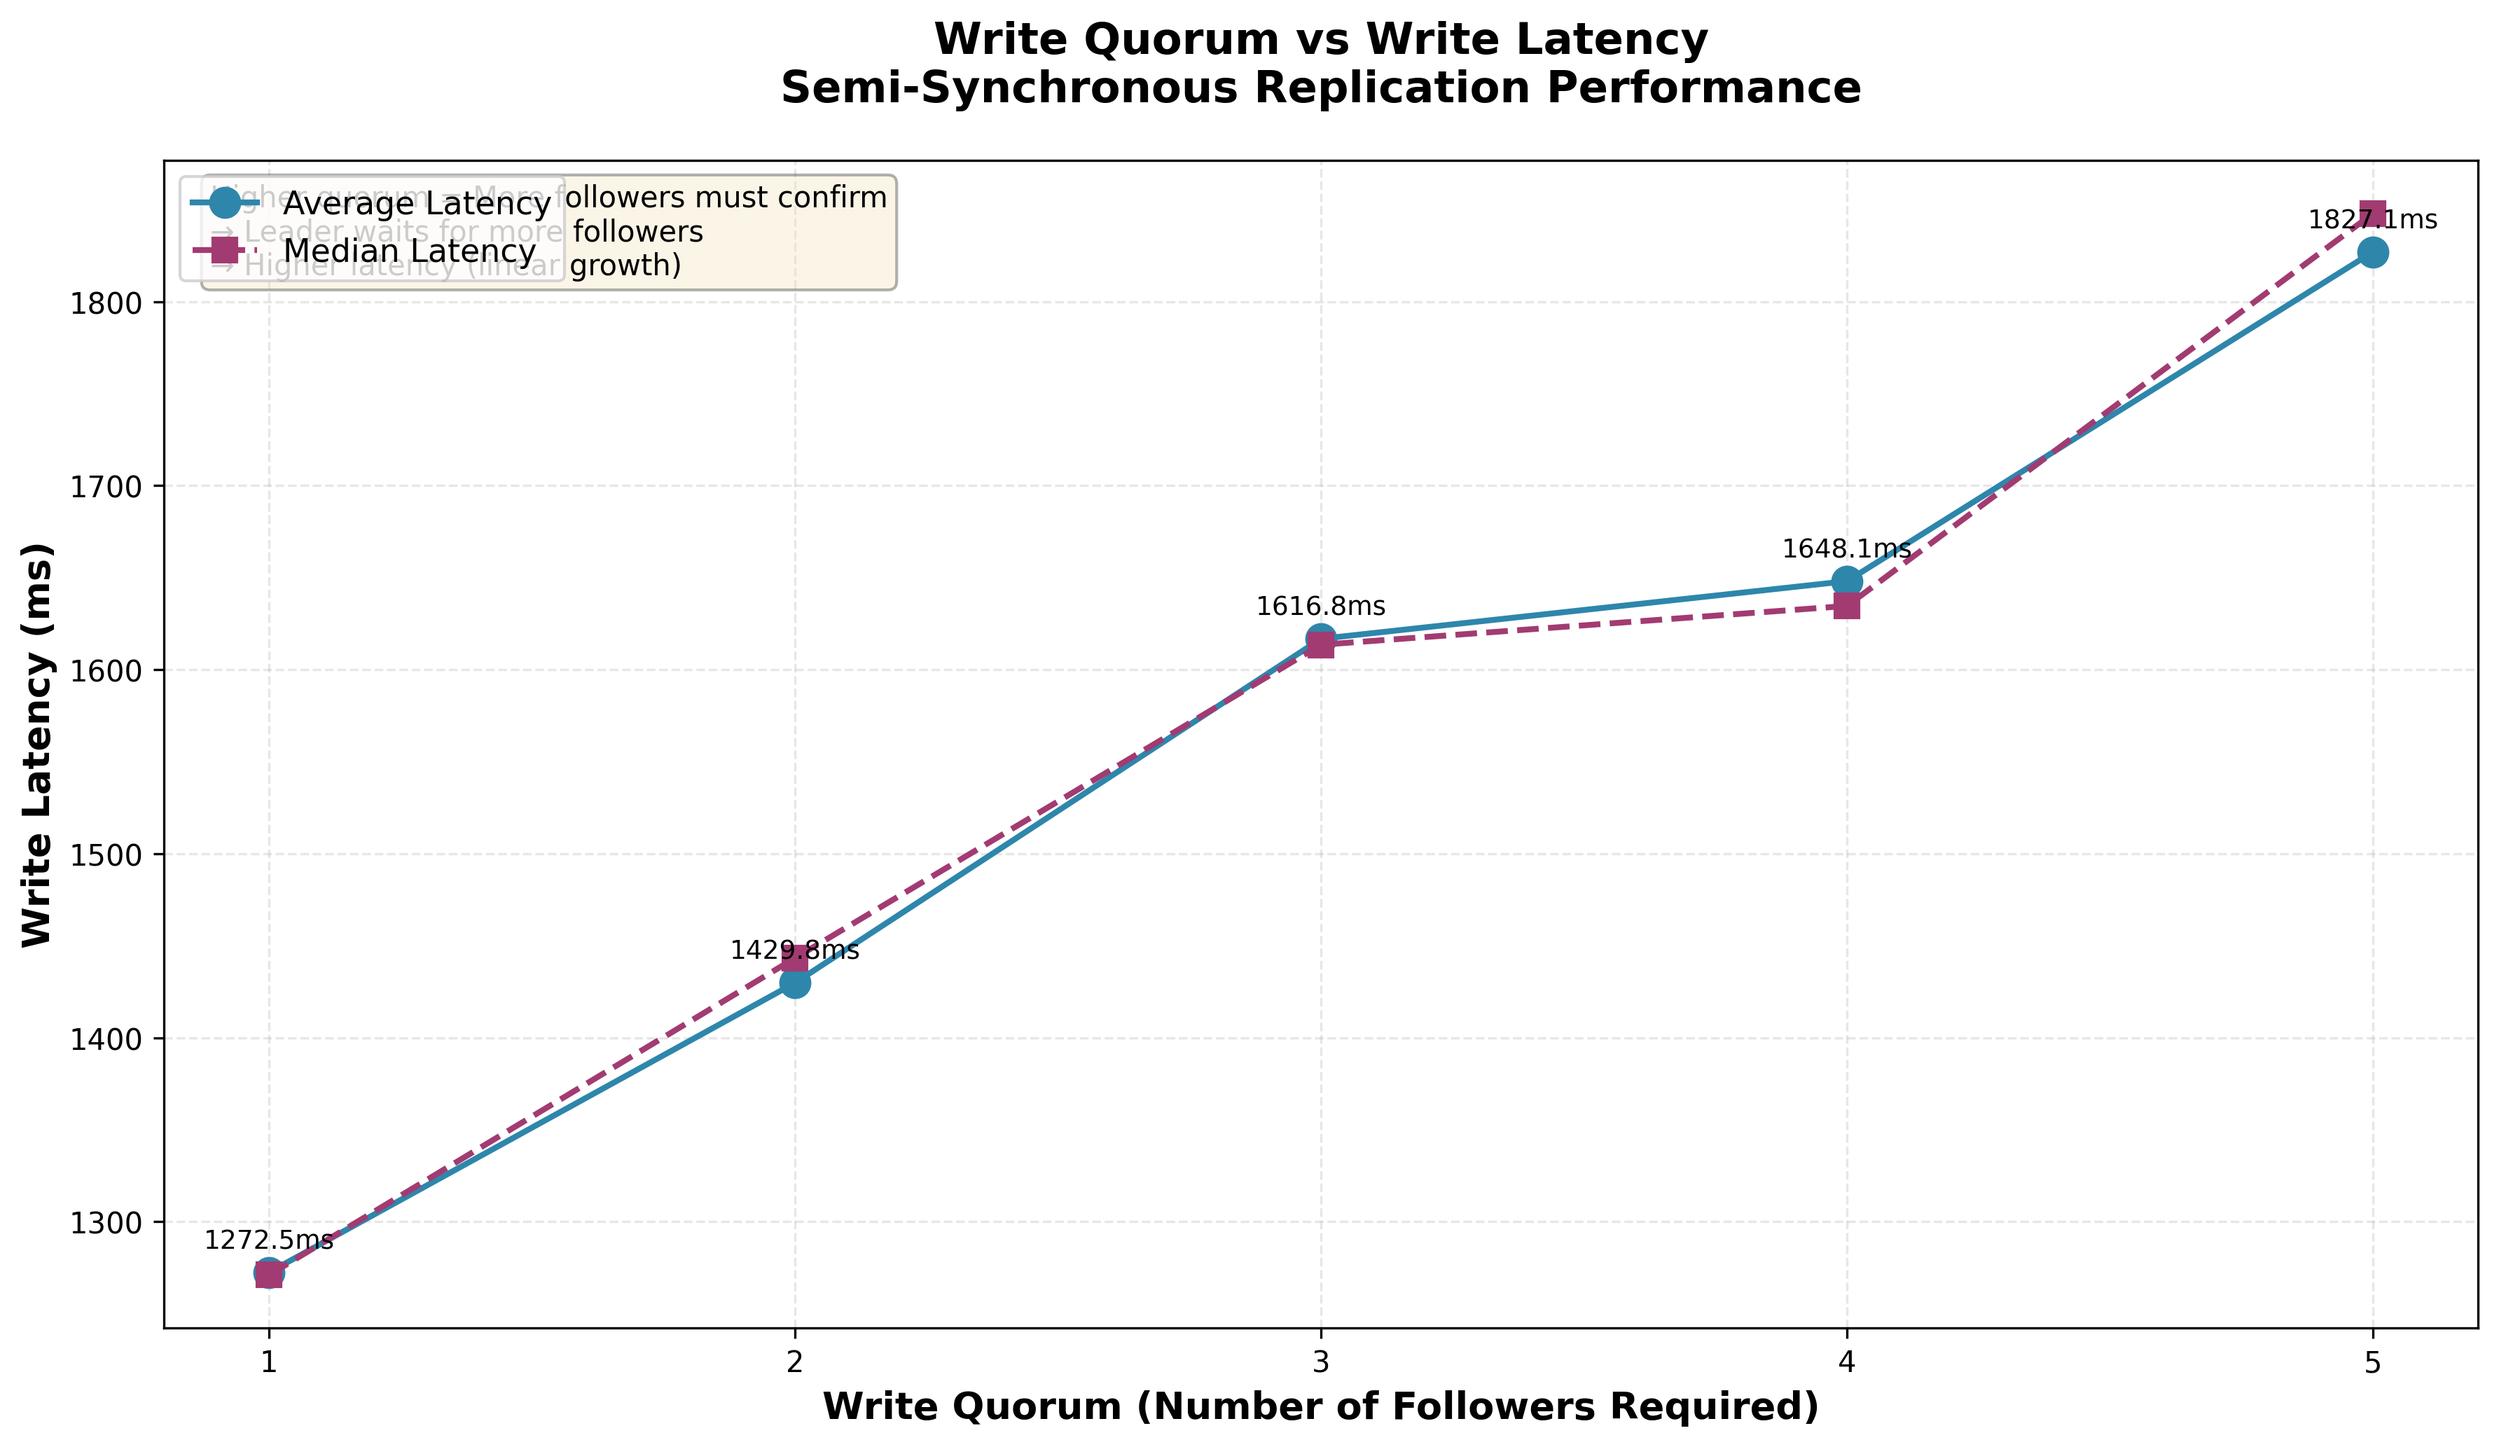
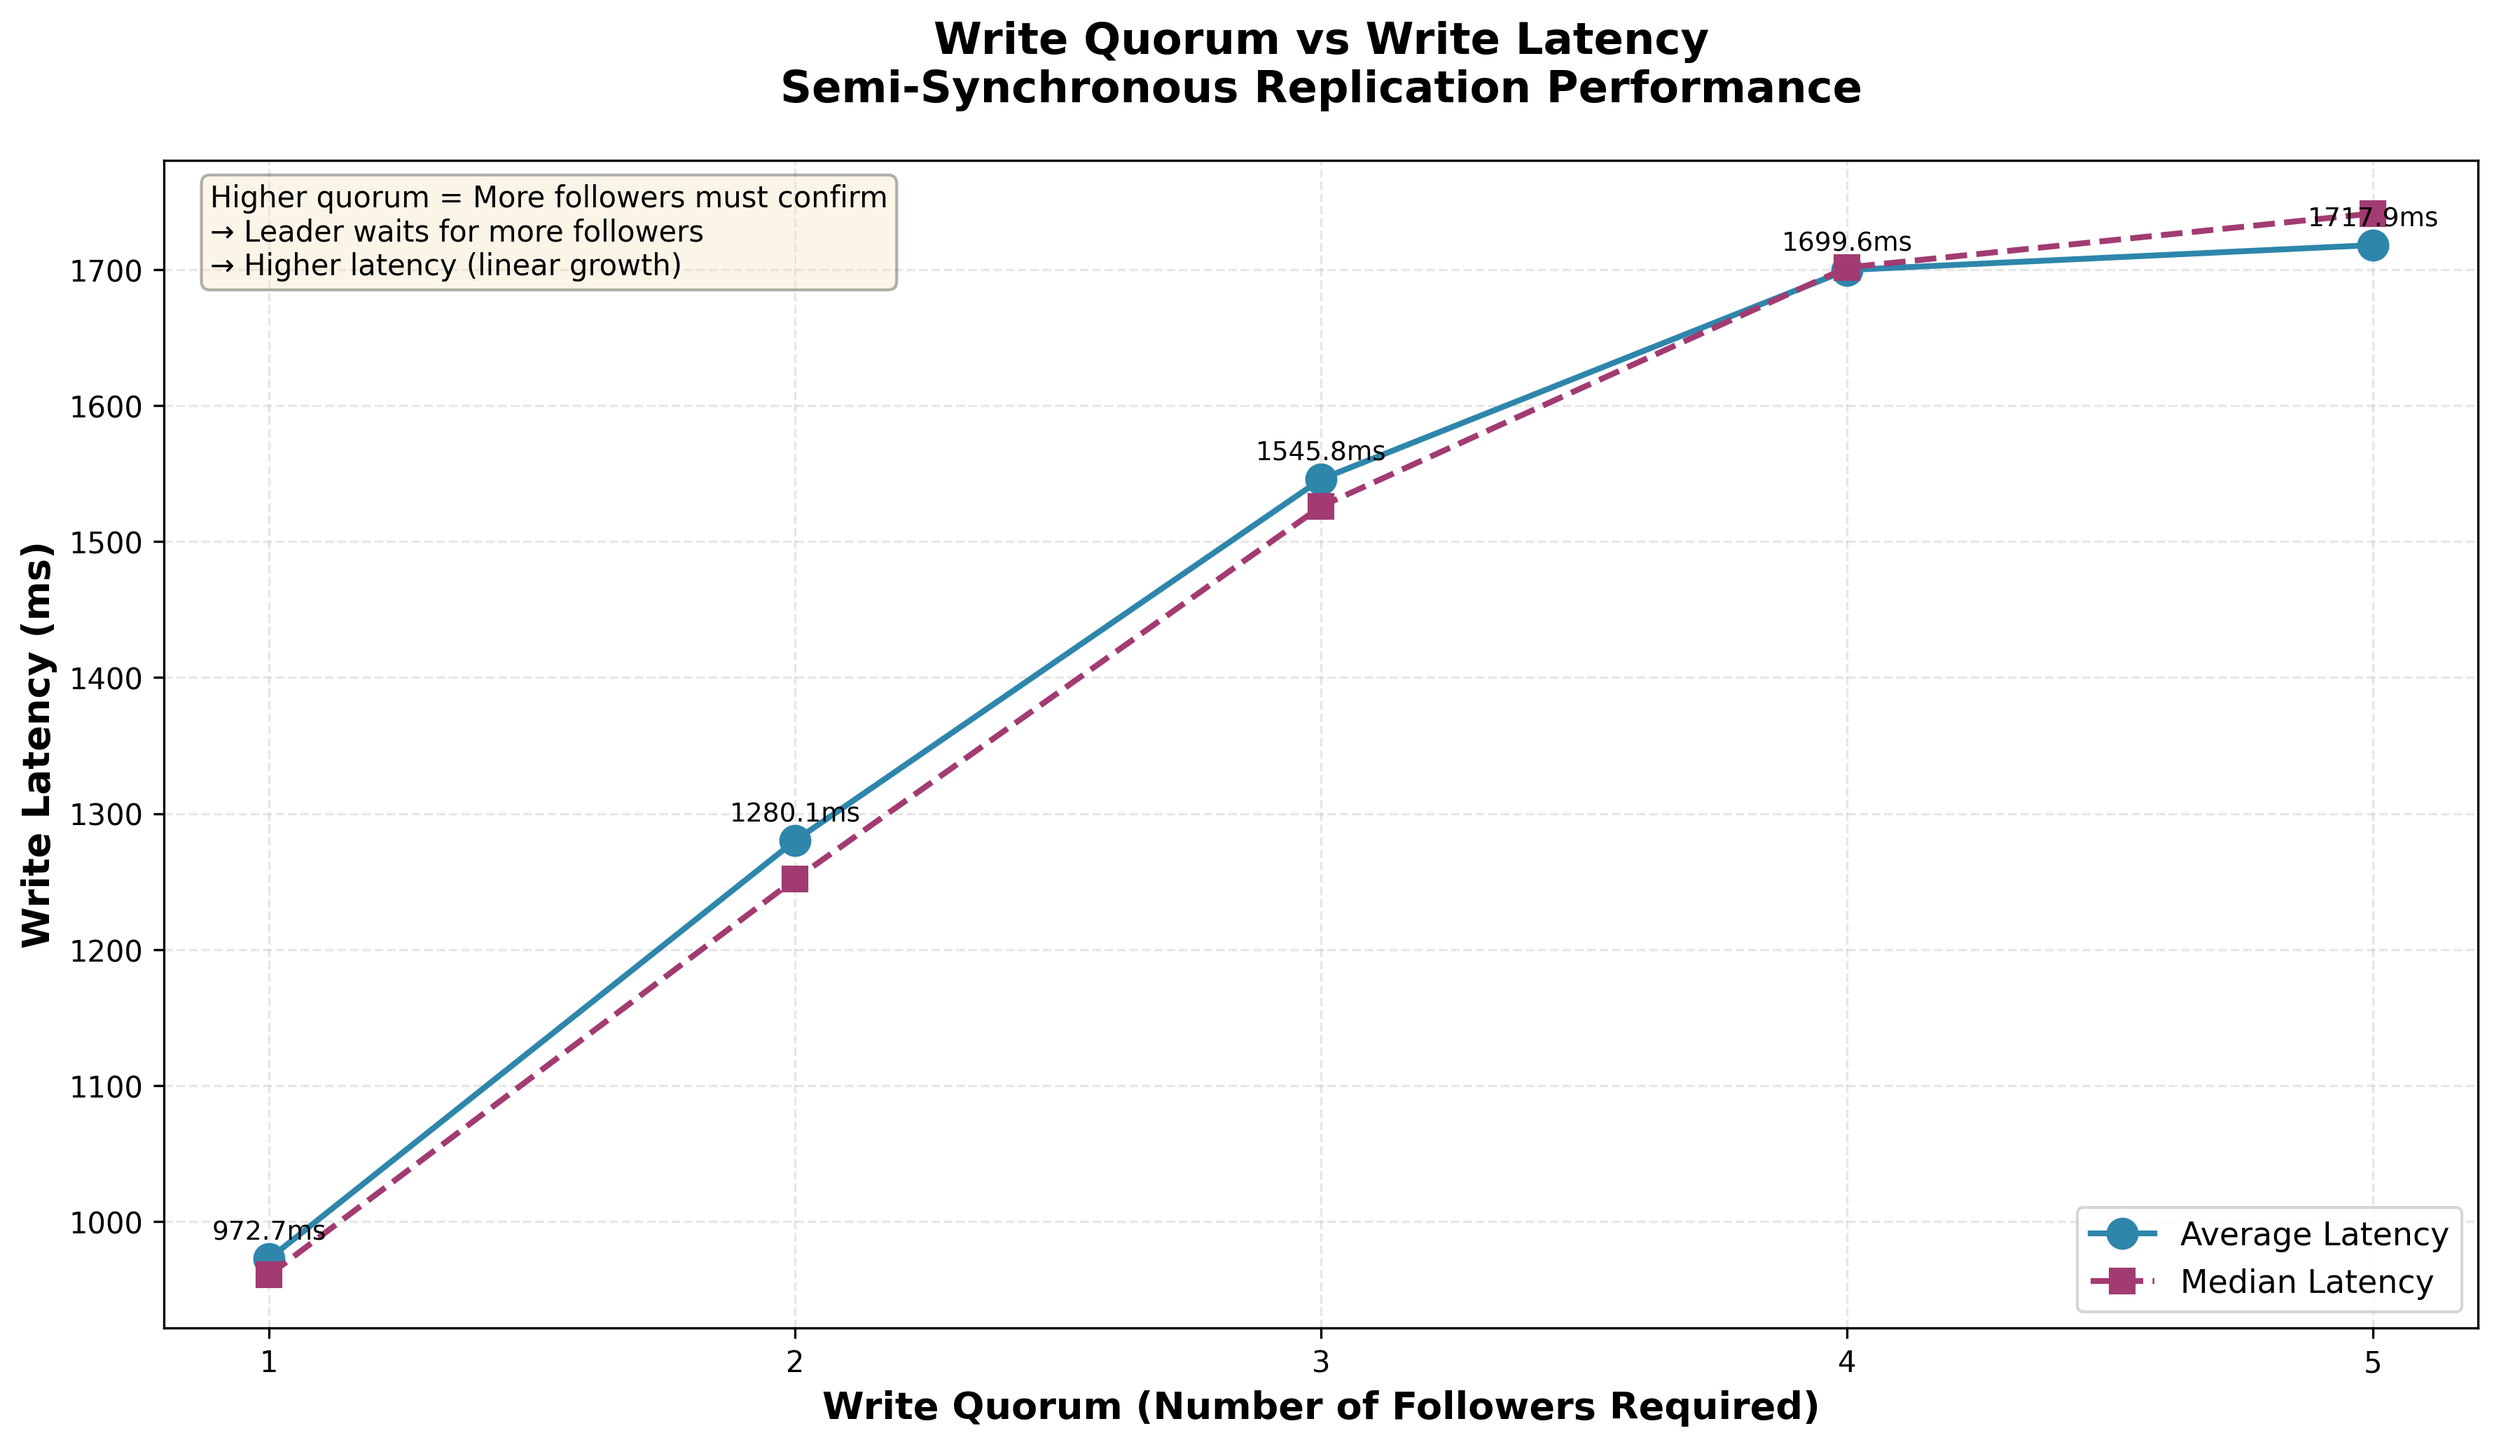
Fixed race conditon

diff --git a/lab4/app.py b/lab4/app.py
@@ -6,23 +6,37 @@ import httpx
 from fastapi import FastAPI, HTTPException
 from pydantic import BaseModel
 from typing import Dict, Tuple, Optional
+import threading
 
 app = FastAPI()
 
 # --- Configuration ---
-ROLE = os.getenv("ROLE", "follower")  # 'leader' or 'follower'
+ROLE = os.getenv("ROLE", "follower")
 PORT = int(os.getenv("PORT", "5000"))
 FOLLOWERS_LIST = os.getenv("FOLLOWERS", "").split(",") if os.getenv("FOLLOWERS") else []
-# Delays in seconds
 MIN_DELAY = float(os.getenv("MIN_DELAY", "0"))
 MAX_DELAY = float(os.getenv("MAX_DELAY", "1"))
-# Default quorum (can be updated dynamically for the test)
 current_write_quorum = int(os.getenv("WRITE_QUORUM", "1"))
 
 # --- Storage ---
-# Store structure: {key: (value, timestamp)}
-# This allows us to track when each write occurred and prevent out-of-order updates
-store: Dict[str, Tuple[str, float]] = {}
+store: Dict[str, Tuple[str, float, int]] = {}
+
+# --- Locks ---
+store_lock = asyncio.Lock()
+config_lock = asyncio.Lock()
+
+# Sequence counter - using threading.Lock for true thread-safety
+_sequence_counter = 0
+_sequence_lock = threading.Lock()
+
+
+def get_next_sequence() -> int:
+    """Thread-safe sequence number generator"""
+    global _sequence_counter
+    with _sequence_lock:
+        _sequence_counter += 1
+        return _sequence_counter
+
 
 # --- Models ---
 
@@ -30,8 +44,8 @@ store: Dict[str, Tuple[str, float]] = {}
 class WriteRequest(BaseModel):
     key: str
     value: str
-    # Optional - leader will generate if not provided
     timestamp: Optional[float] = None
+    sequence: Optional[int] = None
 
 
 class ConfigRequest(BaseModel):
@@ -39,7 +53,6 @@ class ConfigRequest(BaseModel):
 
 
 # --- HTTP Client ---
-# Using a shared client for connection pooling
 client = httpx.AsyncClient()
 
 
@@ -58,22 +71,28 @@ async def health():
 
 @app.get("/read/{key}")
 async def read_key(key: str):
-    if key in store:
-        value, timestamp = store[key]
-        return {"key": key, "value": value, "timestamp": timestamp}
+    async with store_lock:
+        if key in store:
+            value, timestamp, sequence = store[key]
+            return {
+                "key": key,
+                "value": value,
+                "timestamp": timestamp,
+                "sequence": sequence,
+            }
     raise HTTPException(status_code=404, detail="Key not found")
 
 
 @app.get("/read_all")
 async def read_all():
-    # for compatibility with tests)
-    return {key: value for key, (value, timestamp) in store.items()}
+    async with store_lock:
+        return {key: value for key, (value, _, _) in store.items()}
 
 
 @app.delete("/clear")
 async def clear_store():
-    """Clear all data from the store."""
-    store.clear()
+    async with store_lock:
+        store.clear()
     return {"status": "cleared", "role": ROLE}
 
 
@@ -82,42 +101,49 @@ if ROLE == "follower":
 
     @app.post("/replication")
     async def replicate(data: WriteRequest):
-        # Only apply the update if it's newer than what we have
-        # This prevents out-of-order updates from overwriting newer data
-        if data.key in store:
-            current_value, current_timestamp = store[data.key]
-            if data.timestamp > current_timestamp:
-                # Newer update - apply it
-                store[data.key] = (data.value, data.timestamp)
+        async with store_lock:
+            should_apply = False
+
+            if data.key in store:
+                current_value, current_timestamp, current_sequence = store[data.key]
+                # Compare based on sequence first (primary), then timestamp as fallback (secondary)
+                # This ensures consistent ordering of updates
+                if data.sequence is not None and current_sequence is not None:
+                    # Use sequence number as primary ordering mechanism
+                    should_apply = data.sequence > current_sequence
+                elif data.timestamp is not None and current_timestamp is not None:
+                    # Use timestamp as secondary ordering mechanism when sequences are not available
+                    should_apply = data.timestamp > current_timestamp
+                else:
+                    # If both are None, apply the data
+                    should_apply = True
+            else:
+                should_apply = True
+
+            if should_apply:
+                store[data.key] = (data.value, data.timestamp, data.sequence)
                 return {"status": "ack", "applied": True}
             else:
-                # Stale update - ignore it
-                return {"status": "ack", "applied": False, "reason": "stale_timestamp"}
-        else:
-            # New key - apply it
-            store[data.key] = (data.value, data.timestamp)
-            return {"status": "ack", "applied": True}
+                return {"status": "ack", "applied": False, "reason": "stale_write"}
 
 
 # --- Leader Logic ---
 if ROLE == "leader":
 
-    # Endpoint to change quorum dynamically for the lab analysis
     @app.post("/config")
     async def update_config(cfg: ConfigRequest):
         global current_write_quorum
-        current_write_quorum = cfg.quorum
-        return {"status": "updated", "quorum": current_write_quorum}
+        async with config_lock:
+            current_write_quorum = cfg.quorum
+            return {"status": "updated", "quorum": current_write_quorum}
 
     async def send_replication(follower_url: str, data: WriteRequest):
         try:
-            # 1. Simulate Network Lag (Before sending)
             delay = random.uniform(MIN_DELAY, MAX_DELAY)
             await asyncio.sleep(delay)
 
-            # 2. Send Request
             resp = await client.post(
-                f"{follower_url}/replication", json=data.model_dump()
+                f"{follower_url}/replication", json=data.model_dump(), timeout=10.0
             )
             resp.raise_for_status()
             return True
@@ -127,51 +153,63 @@ if ROLE == "leader":
 
     @app.post("/write")
     async def write_key(data: WriteRequest):
-        # Generate timestamp if not provided (client writes don't include timestamp)
+        # CRITICAL: Assign sequence number IMMEDIATELY at entry
+        # This ensures sequence reflects arrival order
+        if data.sequence is None:
+            data.sequence = get_next_sequence()
+
         if data.timestamp is None:
             data.timestamp = time.time()
 
-        # 1. Write locally first with timestamp
-        store[data.key] = (data.value, data.timestamp)
+        final_sequence = data.sequence
+        final_timestamp = data.timestamp
 
-        # 2. Replicate to followers concurrently
-        if not FOLLOWERS_LIST or FOLLOWERS_LIST == [""]:
-            return {"status": "written_local_only"}
+        # Always replicate to followers regardless of whether we write locally
+        # This ensures followers get all updates that clients send to leader
+        should_replicate = True
 
-        # create tasks for all followers
+        # Write locally - only if sequence is newer
+        async with store_lock:
+            should_write = True
+
+            if data.key in store:
+                _, existing_timestamp, existing_sequence = store[data.key]
+                # Only write if our sequence is strictly greater
+                if (
+                    existing_sequence is not None
+                    and final_sequence <= existing_sequence
+                ):
+                    should_write = False
+
+            if should_write:
+                store[data.key] = (data.value, final_timestamp, final_sequence)
+
+        # Replicate to followers if needed
+        if not should_replicate or not FOLLOWERS_LIST or FOLLOWERS_LIST == [""]:
+            return {"status": "success"}
+
+        async with config_lock:
+            required_acks = current_write_quorum
+
         tasks = [send_replication(url, data) for url in FOLLOWERS_LIST]
-
-        # 3. wait for Quorum
-        # we use as_completed to return as soon as we hit the quorum count
-        required_acks = current_write_quorum
-
-        # we gather all tasks, but we want to respond as soon as 'required_acks' succeed.
-        # standard asyncio.gather waits for all. We need a smarter approach for latency analysis.
-        finished_acks = 0
-
-        # if quorum is 0 or 1 (local write is 1), we might return immediately,
-        # but usually Quorum implies "Remote Confirmations" in this context?
-        # let's assume Quorum includes the Leader's own write.
-        # if Quorum = 2, we need Leader (done) + 1 Follower.
-
         needed_remote_acks = max(0, required_acks)
 
         if needed_remote_acks == 0:
-            # Fire and forget replication for remaining consistency
-            asyncio.gather(*tasks)
-            return {"status": "success", "quorum_met": True}
+            asyncio.create_task(asyncio.gather(*tasks, return_exceptions=True))
+            return {"status": "success"}
 
-        # execute concurrently
+        finished_acks = 0
+
         for coro in asyncio.as_completed(tasks):
-            success = await coro
-            if success:
-                finished_acks += 1
+            try:
+                success = await coro
+                if success:
+                    finished_acks += 1
 
-            if finished_acks >= needed_remote_acks:
-                break
-
-        # Note: The remaining tasks continue running in the background in real systems,
-        # but here we awaited the specific count.
+                if finished_acks >= needed_remote_acks:
+                    break
+            except Exception as e:
+                print(f"Replication error: {e}")
 
         if finished_acks >= needed_remote_acks:
             return {"status": "success"}

diff --git a/lab4/test_integration.py b/lab4/test_integration.py
@@ -259,23 +259,20 @@ def test_read_nonexistent_key():
 
 
 def run_all_tests():
-    """Run all integration tests"""
+    """Run all integration tests without restarting containers"""
     print("\n" + "=" * 70)
-    print("KEY-VALUE STORE INTEGRATION TESTS")
+    print("KEY-VALUE STORE INTEGRATION TESTS (NO DOCKER RESTART)")
     print("Single-Leader Replication System")
     print("=" * 70)
 
-    # Start services
-    print("\n🚀 Starting Docker containers...")
-    subprocess.run(["docker-compose", "down"], capture_output=True)
-    time.sleep(2)
-    subprocess.run(["docker-compose", "up", "-d"], capture_output=True)
+    print("\n🔍 Checking if services are already running...")
 
-    if not wait_for_services():
-        print("\n❌ Services failed to start. Aborting tests.")
+    if not wait_for_services(timeout=20):
+        print("❌ Services are not running. Start docker-compose manually first.")
         return False
 
-    # Run tests
+    print("🚀 Services detected, starting tests...\n")
+
     tests = [
         test_leader_health,
         test_followers_health,
@@ -284,13 +281,14 @@ def run_all_tests():
         test_multiple_writes,
         test_quorum_configuration,
         test_read_nonexistent_key,
+        test_race_condition_single_key,
     ]
 
     results = []
     for test in tests:
         result = test()
         results.append(result)
-        time.sleep(0.5)  # Small delay between tests
+        time.sleep(0.5)
 
     # Summary
     print("\n" + "=" * 70)
@@ -309,6 +307,54 @@ def run_all_tests():
     print("\n" + "=" * 70)
 
     return passed == total
+
+
+def test_race_condition_single_key():
+    print("\n" + "=" * 70)
+    print("TEST X: Race Condition — Same Key Writes")
+    print("=" * 70)
+
+    from concurrent.futures import ThreadPoolExecutor
+
+    KEY = "race_test"
+    VALUES = [f"value_{i}" for i in range(100)]
+
+    def write_value(v):
+        try:
+            r = httpx.post(
+                f"{LEADER_URL}/write", json={"key": KEY, "value": v}, timeout=5
+            )
+            return r.status_code == 200
+        except:
+            return False
+
+    # concurrent writes
+    with ThreadPoolExecutor(max_workers=20) as ex:
+        results = list(ex.map(write_value, VALUES))
+
+    # Ensure most writes succeeded
+    if sum(results) < 90:
+        print("❌ Too many write failures")
+        return False
+
+    time.sleep(1)
+
+    # Read final value
+    r = httpx.get(f"{LEADER_URL}/read/{KEY}", timeout=5)
+    if r.status_code != 200:
+        print("❌ Race test key not found")
+        return False
+
+    final = r.json()["value"]
+    print(f"Final value stored: {final}")
+
+    expected = VALUES[-1]
+    if final == expected:
+        print("✅ PASSED: Last writer wins (no lost updates)")
+        return True
+    else:
+        print(f"❌ FAILED: Expected '{expected}' but got '{final}'")
+        return False
 
 
 if __name__ == "__main__":
